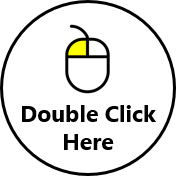
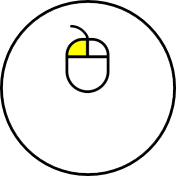
Removed old pictures, added CSS classes for syling on tutorial tables, added spanish translation for alt text, consolidated table structure.

diff --git a/app/views/audit.scala.html b/app/views/audit.scala.html
@@ -335,7 +335,7 @@
                             <p></p>
                         </div>
                         <div style="display:none;">
-                            <img src='@routes.Assets.at("javascripts/SVLabel/img/onboarding/DoubleClickNoText.png")' id="double-click-icon" width="400" alt="Double click icon"/>
+                            <img src='@routes.Assets.at("javascripts/SVLabel/img/onboarding/DoubleClick.png")' id="double-click-icon" width="400" alt="Double click icon"/>
                             <p id="double-click-overlay-text-1">@Messages("audit.tutorial.double.click.line.1")</p>
                             <p id="double-click-overlay-text-2">@Messages("audit.tutorial.double.click.line.2")</p>
                         </div>
@@ -747,17 +747,16 @@
         <div class="row">
             <div class="col-md-12">
                 <p>@Html(Messages("audit.tutorial.welcome.1"))</p>
-                <table style="width:100%;">
-                    <tbody><tr> 
-                        <th style="text-align:center; width:25%">@Html(Messages("curb.ramps"))</th>
-                        <th style="text-align:center; width:25%">@Html(Messages("missing.ramps"))</th>
-                        <th style="text-align:center; width:25%">@Html(Messages("obstacles"))  </th>
-                        <th style="text-align:center; width:25%">@Html(Messages("surface.problems"))</th>
+                <table class="tutorial-table">
+                    <tr> 
+                        <td class="tutorial-table-cell tutorial-cell-intro">@Html(Messages("curb.ramps"))</td>
+                        <td class="tutorial-table-cell tutorial-cell-intro">@Html(Messages("missing.ramps"))</td>
+                        <td class="tutorial-table-cell tutorial-cell-intro">@Html(Messages("obstacles")) </td>
+                        <td class="tutorial-table-cell tutorial-cell-intro">@Html(Messages("surface.problems"))</td>
                     </tr>
-                    
-                </tbody></table>
+                </table>
                 <p>
-                    <img src='@routes.Assets.at("javascripts/SVLabel/img/onboarding/ExamplePictures03_v3.png")' id="onboarding-example-image-1"
+                    <img src='@routes.Assets.at("javascripts/SVLabel/img/onboarding/ExamplePictures03.png")' id="onboarding-example-image-1"
                     alt="Examples of accessibility attributes: curb ramps, missing curb ramps, obstacles in path, and surface problems.">
                 </p>
 
@@ -793,41 +792,36 @@
         <div class="row">
             <div class="col-md-12">
                 <p>@Html(Messages("audit.tutorial.end.1"))</p>
-                <table style="width:100%;">
-                    <tbody><tr>
-                        <th style="text-align:center; width:50%">@Html(Messages("audit.tutorial.accessible"))</th>
-                        <th style="text-align:center; width:50%">@Html(Messages("audit.tutorial.inaccessible"))</th>
-                    </tr>
-                </tbody></table>
-                <p>
-                    <img src='@routes.Assets.at("javascripts/SVLabel/img/onboarding/ExamplePictures02_top.png")' id="onboarding-example-image-2"
-                    alt="Examples of accessibility attributes: curb ramps, missing curb ramps, obstacles in path, and surface problems.">
-                </p>
                 
-                <table style="width:100%;  font-size:65%;">
-                    <tbody><tr>
-                        <th style="text-align:center; width:50%;">@Html(Messages("audit.tutorial.complete.photoLabel.1"))</th>
-                        <th style="text-align:center; width:50%">@Html(Messages("audit.tutorial.complete.photoLabel.2"))</th>
+                
+                <table class="tutorial-table">
+                    <tr>
+                        <th class="tutorial-table-cell">@Html(Messages("audit.tutorial.accessible"))</th>
+                        <th class="tutorial-table-cell">@Html(Messages("audit.tutorial.inaccessible"))</th>
                     </tr>
-                </tbody></table>
-                <p></p>
-                <table style="width:100%">
-                    <tbody><tr>
-                        <th style="text-align:center; width:50%">@Html(Messages("audit.tutorial.inaccessible"))</th>
-                        <th style="text-align:center;width:50%">@Html(Messages("audit.tutorial.inaccessible"))</th>
+                    <tr>
+                        <td colspan=2><img src='@routes.Assets.at("javascripts/SVLabel/img/onboarding/ExamplePictures02_top.png")' id="onboarding-example-image-2"
+                            alt="@Messages("audit.tutorial.examples")"></td>
                     </tr>
-                </tbody></table>
-                <p>
-                    <img src='@routes.Assets.at("javascripts/SVLabel/img/onboarding/ExamplePictures02_bot.png")' id="onboarding-example-image-2"
-                    alt="Examples of accessibility attributes: curb ramps, missing curb ramps, obstacles in path, and surface problems.">
-                </p>
-
-                <table style="width:100%; font-size:65%;">
-                    <tbody><tr>
-                        <th style="text-align:center; width:50%">@Html(Messages("audit.tutorial.complete.photoLabel.3"))</th>
-                        <th style="text-align:center; width:50%">@Html(Messages("audit.tutorial.complete.photoLabel.4"))</th>
+                    <tr>
+                        <td class="tutorial-table-cell">@Html(Messages("audit.tutorial.examples.curb.ramp"))</td>
+                        <td class="tutorial-table-cell">@Html(Messages("audit.tutorial.examples.missing.ramp"))</td>
                     </tr>
-                </tbody></table>
+                    <tr height="15px"></tr>
+                    <tr>
+                        <th class="tutorial-table-cell">@Html(Messages("audit.tutorial.inaccessible"))</th>
+                        <th class="tutorial-table-cell">@Html(Messages("audit.tutorial.inaccessible"))</th>
+                    </tr>
+                    <tr>
+                        <td colspan=2><img src='@routes.Assets.at("javascripts/SVLabel/img/onboarding/ExamplePictures02_bot.png")' id="onboarding-example-image-2"
+                            alt="@Messages("audit.tutorial.examples")" ></td>
+                    </tr>
+                    <tr>
+                        <td class="tutorial-table-cell">@Html(Messages("audit.tutorial.examples.obstacle"))</td>
+                        <td class="tutorial-table-cell">@Html(Messages("audit.tutorial.examples.surface.problem"))</td>
+                    </tr>
+                </table>
+                
                 <p></p>
                 <p>@Html(Messages("audit.tutorial.end.2"))</p>
             </div>

diff --git a/public/javascripts/SVLabel/css/svl-onboarding.css b/public/javascripts/SVLabel/css/svl-onboarding.css
@@ -119,3 +119,19 @@
 #onboarding-example-image-1, #onboarding-example-image-2 {
     width: 980px;
 }
+
+.tutorial-table {
+    width: 100%;
+}
+
+.tutorial-table-cell {
+    text-align:center; 
+}
+
+.tutorial-cell-intro {
+    width: 25%;
+}
+
+.tutorial-cell-end {
+    width: 50%
+}
